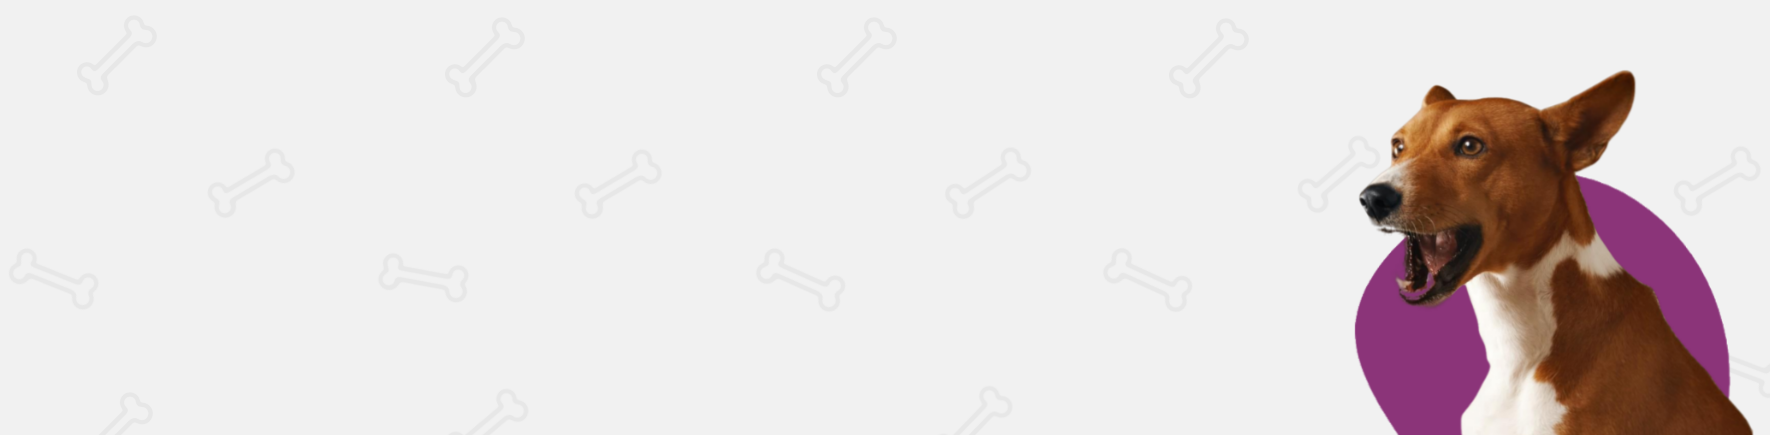
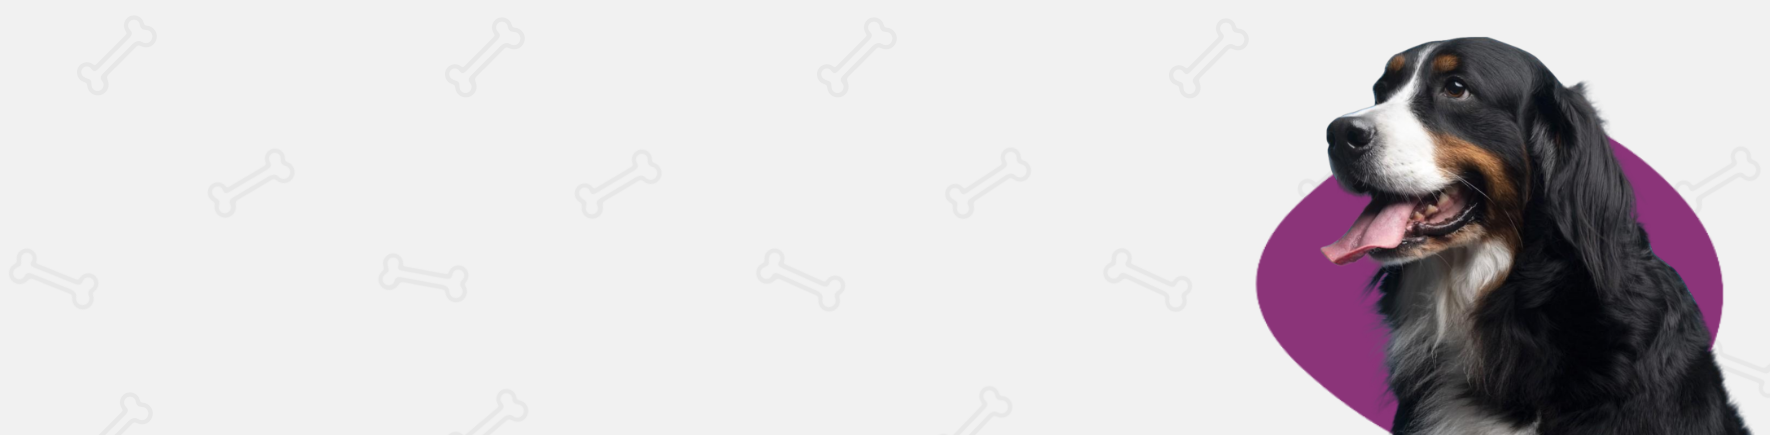
Added Bio page

Changed region(s): [[0.6836, 0.0897, 0.9944, 1.0]]

diff --git a/pages/adoption/[animal]/index.tsx b/pages/adoption/[animal]/index.tsx
@@ -1,13 +1,157 @@
+/* eslint-disable @next/next/no-img-element */
+
 import React from "react";
 import petModel from "../../../models/petModel";
 import dbConnect from "../../../utils/dbConnect";
+import { Icon } from "@iconify/react";
+import {
+  Button,
+  DashedTitle,
+  FooterSection,
+} from "../../../components/common/CommonComponents";
+import {
+  AdoptionIconContainer,
+  IconText,
+} from "../../../components/LayoutComponents/AdoptionLayout/AdoptionLayoutComponents";
 
 function Animal({ animal }: { animal: any }) {
-  console.log("DATA IN PAGE = ", animal[0]);
+  console.log(animal[0]);
+  const {
+    name,
+    age,
+    sex,
+    adopted,
+    yearsOrMonths,
+    image,
+    breed,
+    size,
+    desc,
+    suitableForAnimals,
+    suitableForChildren,
+  } = animal[0];
+  const HeroBanner = () => {
+    return (
+      <div className="flex flex-col items-center mb-20">
+        <div className="flex flex-col-reverse items-center justify-center w-5/6 xl:flex-row h-2/4">
+          <div className=" basis-1/3">
+            <div className=" pb-7 pt-3  text-[#8b3479] text-3xl font-normal font-poppins md:text-5xl">
+              Meet {name}
+            </div>
+          </div>
+
+          <div className="flex justify-center basis-1/3">
+            <img
+              className="w-4/5 bg-center bg-no-repeat sm:w-2/5 xl:w-auto xl:h-4/5 rounded-xl"
+              src="/MeetBioSmall.png"
+              alt=""
+            />
+          </div>
+        </div>
+      </div>
+    );
+  };
+
   return (
-    <div className="">
-      <h1 className="text-red-600 ">Bio for {animal[0].name}</h1>
-    </div>
+    <>
+      <HeroBanner />
+      <div className="flex flex-col items-center mb-20 h-fit">
+        <div className="flex flex-col items-center justify-center w-full xl:w-5/6 lg:flex-row ">
+          <div className="flex justify-center w-full p-5 md:w-3/6 md:p-0">
+            <div
+              className="bg-no-repeat bg-cover w-100 h-100 2xl:w-120 rounded-xl 2xl:h-120"
+              style={{
+                backgroundImage: `url("${image}")`,
+              }}
+            ></div>
+          </div>
+          <div className="flex flex-col items-start w-full h-full p-5 md:w-3/6 md:p-0">
+            <div className="pt-3 pb-2 text-3xl font-normal font-poppins md:text-3xl">
+              Name: <span className="text-[#8b3479]"> {name}</span>
+            </div>
+            <div className="pt-3 font-normal text-md pb-7 font-poppins md:text-xl">
+              <span className="text-[#8b3479]"> {breed}</span>
+            </div>
+
+            <div className="flex items-center pb-3 text-sm font-normal lg:text-lg xl:text-xl xl:ml-10 font-poppins">
+              {suitableForChildren ? (
+                <Icon icon="typcn:tick" color="#8b3479" />
+              ) : (
+                <Icon icon="bi:x" color="#8b3479" />
+              )}
+              &nbsp; Suitable for Children &nbsp; &nbsp;
+              {suitableForAnimals ? (
+                <Icon icon="typcn:tick" color="#8b3479" />
+              ) : (
+                <Icon icon="bi:x" color="#8b3479" />
+              )}
+              &nbsp; Suitable for Animals
+            </div>
+            <div className="flex w-full">
+              <div className="flex justify-between w-full lg:w-4/6">
+                <div className="flex flex-col">
+                  <div className="pt-3 text-sm font-normal font-poppins md:text-lg">
+                    <span className="font-semibold">Sex:&nbsp;</span>
+                    {sex ? sex : "Unknown"}
+                  </div>
+                  <div className="pt-3 text-sm font-normal font-poppins md:text-lg">
+                    <span className="font-semibold">Age:&nbsp;</span>
+                    {age}&nbsp;
+                    {yearsOrMonths}
+                  </div>
+                  <div className="pt-3 text-sm font-normal font-poppins md:text-lg">
+                    <span className="font-semibold">
+                      {sex === "Female" ? "Spayed" : "Neutered"}:&nbsp;
+                    </span>
+                    Yes
+                  </div>
+                </div>
+                <div className="flex flex-col">
+                  <div className="pt-3 text-sm font-normal font-poppins md:text-lg">
+                    <span className="font-semibold">Size:&nbsp;</span>
+                    {size}
+                  </div>
+                  <div className="pt-3 text-sm font-normal font-poppins md:text-lg">
+                    <span className="font-semibold">Adopted:&nbsp;</span>
+                    {adopted}
+                  </div>
+                  <div className="pt-3 text-sm font-normal font-poppins md:text-lg">
+                    <span className="font-semibold">Vaccinated:&nbsp;</span>
+                    Yes
+                  </div>
+                </div>
+              </div>
+            </div>
+            <div className="pt-10 text-xl font-light font-poppins">{desc}</div>
+            <Button text={"View Form"} />
+          </div>
+        </div>
+      </div>
+      <div className="flex justify-center w-full">
+        <div className="w-5/6 border border-b-1 border-b-slate-200"></div>
+      </div>
+      <DashedTitle text={"Adoption Rules"} />
+      <div className="flex justify-center w-full mb-20">
+        <div className="w-5/6 h-fit bg-[#FEF4DF]">
+          <div className="flex justify-center w-full">
+            <div className="flex flex-col items-center w-full sm:w-9/12 xl:w-4/6">
+              <div className="flex flex-row justify-between w-full pt-5">
+                <AdoptionIconContainer>
+                  <IconText text="Enclosed Garden" />
+                  <IconText text="Sleeping Indoors" />
+                  <IconText text="Landlord Permission" />
+                </AdoptionIconContainer>
+                <AdoptionIconContainer>
+                  <IconText text="Children 12+" />
+                  <IconText text="Home Check" />
+                  <IconText text="Form Required" />
+                </AdoptionIconContainer>
+              </div>
+            </div>
+          </div>
+        </div>
+      </div>
+      <FooterSection />
+    </>
   );
 }
 

diff --git a/components/common/CommonComponents.tsx b/components/common/CommonComponents.tsx
@@ -36,7 +36,7 @@ export const FooterSection = () => {
     );
   };
   return (
-    <div className="h-screen pt-4 bg-black md:h-96">
+    <div className="pt-4 bg-black h-fit">
       <div className="flex items-center justify-center">
         <img className="w-32 h-32" src="/logo-nav.png" alt="" />
       </div>

diff --git a/tailwind.config.js b/tailwind.config.js
@@ -18,6 +18,10 @@ module.exports = {
         100: "27rem",
         120: "36rem",
       },
+      width: {
+        100: "27rem",
+        120: "36rem",
+      },
     },
   },
   plugins: [],
